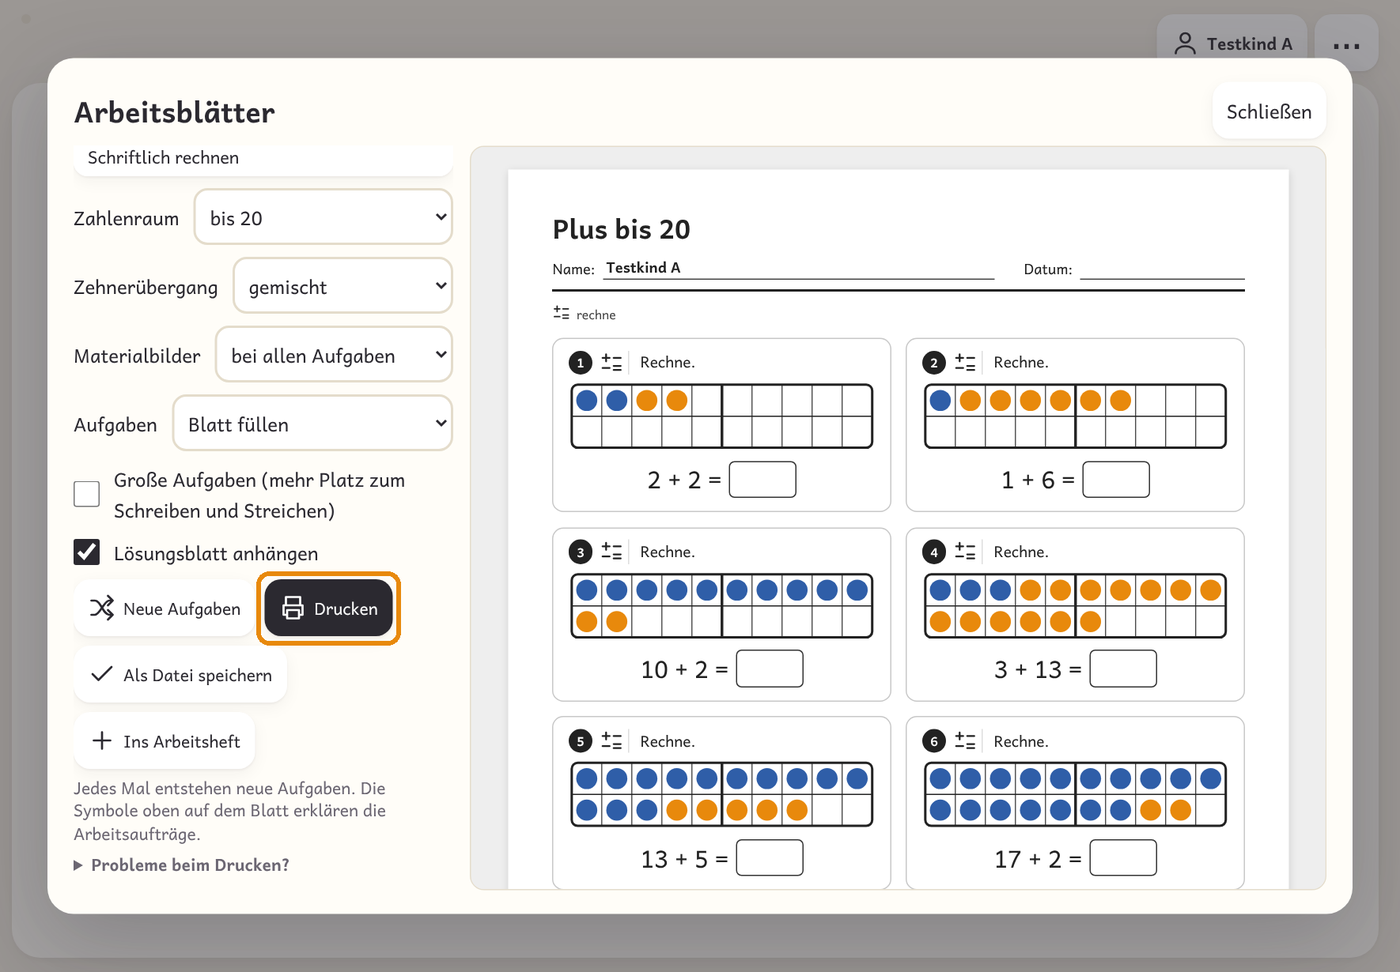
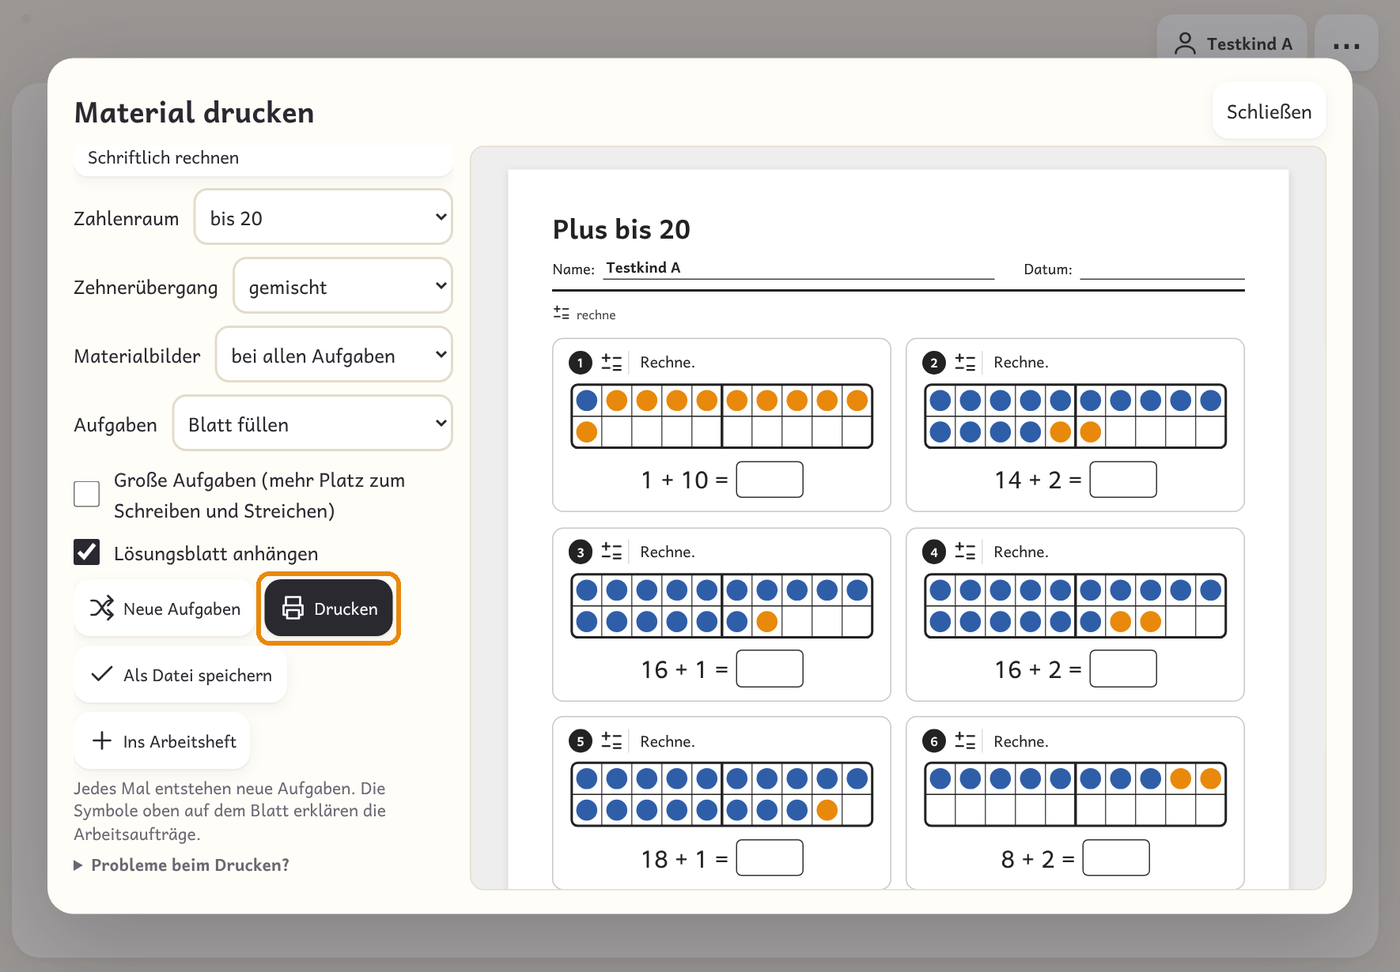
Testversion aus entwicklung (e01f0b4): Stand 0.38.0
Claude-Session: https://claude.ai/code/session_01Efzymufnh8FJ8hDG3XRv7b

diff --git a/index.html b/index.html
@@ -11455,7 +11455,7 @@ document.addEventListener('change', e => { const c = e.target.closest('[data-sub
 document.addEventListener('change', e => { const s = e.target.closest('[data-guide-pid]'); if(!s) return; const p = data.profiles.find(x => x.id === s.dataset.guidePid); if(p){ p.guide = s.value || undefined; saveData(); render(); } });
 
 /* ---------- Rückmeldung (Testphase): Art, Schwere, Text + automatischer Kontext → E-Mail ---------- */
-const APP_VERSION = '0.38.0 · Testversion 6e253ea · 26.11.2026';
+const APP_VERSION = '0.39.0 · Testversion e01f0b4 · 26.11.2026';
 /* Danke-Seite: Namen nur mit Einverständnis eintragen, z. B. 'Vorname Nachname (Schule)' */
 const THANKS = [];
 const FB_REPO = 'https://github.com/Steffinuss/stufenweise';

diff --git a/tests/simlib.py b/tests/simlib.py
@@ -37,7 +37,8 @@ async def answer(pg, correct):
         vals = it['fields'] if correct else [f+1 for f in it['fields']]
         ins = pg.locator('#stage .dg-in, #controls .dg-in')
         n = await ins.count(); assert n==len(vals), (n, vals, it)
-        for i,v in enumerate(vals): await ins.nth(i).fill(str(v))
+        # seit 0.35.1 sind Ziffernfelder bei offener Zifferntastatur readOnly → Wert per JS setzen (wie in antwortfeld.py)
+        for i,v in enumerate(vals): await ins.nth(i).evaluate("(e,v)=>{e.focus(); e.value=v; e.dispatchEvent(new Event('input',{bubbles:true}))}", str(v))
         await ins.nth(n-1).press('Enter')
     elif t=='clockset':
         await pg.evaluate("(c)=>{const it=app.diag.items[app.diag.idx];app.diag.resp={h:c?it.target.h:(it.target.h+3)%12,m:it.target.m,moved:true}}", correct); await pg.click('#d-next')

diff --git a/BACKLOG.md b/BACKLOG.md
@@ -19,6 +19,7 @@ Stand: 24.11.2026 (0.34.0)
 | 6 | ~~**G** Hundertertafel-Blätter: Bezug zur Tafel sichtbar (+ Heft zur Förderzone)~~ | klein | freigegeben in 0.32.0 (23.11.2026), siehe `CHANGELOG.md` |
 | 7 | ~~**H** Konzentrationsmodus für Kinder (+ Usability-Review)~~ | klein bis mittel | freigegeben in 0.33.0 (24.11.2026), siehe `CHANGELOG.md` |
 | 8 | ~~**I** Optimierung Deutsch (Bilder beim Schreiben, Anhören, Ausbau) + Hundertertafel verdeckt, Mathe mit Material~~ | groß | freigegeben in 0.34.0 (24.11.2026), siehe `CHANGELOG.md` |
+| 9 | ~~**J** Arbeitshefte, die aufeinander aufbauen + **K** Fußzeile ohne Namen~~ | groß | freigegeben in 0.38.0 (26.11.2026), siehe `CHANGELOG.md` |
 
 Alternative: B zuerst als schneller Gewinn, während Stefan den Basis-Test ausprobiert.
 
@@ -218,7 +219,9 @@ Beispiel „Was passt nicht?“:
 
 **Vor der Umsetzung zu klären (Stefan):** Welche Stufen zuerst (Vorschlag: V1 Gleiches, V2 Was passt nicht?, V3 Sortieren – dort wirkt Ähnlichkeit am stärksten)? Welche Gegenstände und Varianten? Soll „mittel“ eine eigene Aufgabenart werden oder eine weitere Schwierigkeit `st` innerhalb der Art? Gilt die neue Progression auch für die Arbeitsblätter?
 
-## J. Arbeitshefte, die aufeinander aufbauen (Wunsch Stefan, 25.11.2026) – Schritte 1–5 gebaut (Testversion), Durchsicht der Texte offen
+## J. Arbeitshefte, die aufeinander aufbauen (Wunsch Stefan, 25.11.2026) – erledigt, freigegeben in 0.38.0
+
+**Status:** erledigt, freigegeben in 0.38.0 (26.11.2026), siehe `CHANGELOG.md`. Mit Heft-Layout B, Deckblatt C4 und Rückseite als Nachguckseite.
 
 Stefan: „Test machen → Arbeitsheft drucken → Schüler üben lassen.“ Heute ist das Heft oft an einem Tag durch (nur Förderzone, 1–2 Seiten je Stufe). Gewünscht: kommende Stufen vorwegnehmen, Heft nur für Mathe oder nur für Deutsch, für Deutsch mehr Texte und Aufgaben, zwischendurch längere Texte; Umfang wie ein Verlagsheft (Westermann „Fördern Inklusiv“, rund 48–64 Seiten).
 
@@ -232,7 +235,52 @@ Konzept mit 9 Fragen an Stefan: Dokument „Stufenweise – Arbeitshefte, die au
 
 ## K: Name auf Arbeitsblättern durch Projektnamen ersetzen (Wunsch Stefan, 25.11.2026)
 
-**Status:** gebaut in `entwicklung` (26.11.2026, Stefan: „mach das noch“), wartet mit Backlog J auf die Freigabe. Alle 6 Fußzeilen (`tafHelp`, Arbeitsblätter, Legeblätter, Heft-Deckblatt, `HEFT_LIC`) zeigen „Stufenweise · stufenweise.app · CC BY-SA 4.0“; Impressum, Lizenzseite, Kopfkommentar und `docs/anleitung.md` (Lizenzabschnitt) unverändert. Test in `tests/heft_assistent.py`.
+**Status:** erledigt, freigegeben in 0.38.0 (26.11.2026; gebaut 26.11., Stefan: „mach das noch“). Alle 6 Fußzeilen (`tafHelp`, Arbeitsblätter, Legeblätter, Heft-Deckblatt, `HEFT_LIC`) zeigen „Stufenweise · stufenweise.app · CC BY-SA 4.0“; Impressum, Lizenzseite, Kopfkommentar und `docs/anleitung.md` (Lizenzabschnitt) unverändert. Test in `tests/heft_assistent.py`.
 **Anlass:** Unten auf Arbeitsblättern, Legeblättern und Hilfeseiten steht „© Stefan Hackl“ (5 Stellen in `index.html`, Klasse `ab-lic`, z. B. `tafHelp`, Legeblätter; dazu seit Backlog J `HEFT_LIC` für Heftseiten und Deckblatt in `buildHeft`). Blätter anderer Lehrkräfte tragen so Stefans Namen; der Name gehört nicht in Hefte und zu Eltern.
 **Vorschlag:** Fußzeile „Stufenweise · stufenweise.app · CC BY-SA 4.0“. Das genügt der Namensnennung der Lizenz; Stefan bleibt als Urheber im Impressum, in `LICENSE`/`LIZENZ-INHALTE.md` und auf GitHub genannt. Impressum und Kopfkommentar in `index.html` unverändert lassen.
 **Größe:** klein. Prüfen: `arbeitsblaetter.py`, `legeblaetter.py` (Fußzeile darf keine Seite verlängern).
+
+## L: Lineatur zum freien Schreiben wählbar (Wunsch Stefan, 26.11.2026)
+
+**Status:** nur dokumentiert, nicht begonnen.
+**Wunsch (Stefan):** „Beim freien Schreiben Arten von Lineatur aussuchen. Standard (dreiteilig → Dach/Erdgeschoss/Keller) Standard für 1./2. Klasse. Dann 2 Linien (3. Klasse) und 1 Linie (Standard 4. Klasse).“
+**Idee:** Auswahl „Lineatur“ mit drei Arten:
+- **Haus mit drei Stockwerken:** Dach, Erdgeschoss, Keller (Oberlänge, Mittelband, Unterlänge). Standard für Klasse 1/2.
+- **Zwei Linien:** Grundlinie und Mittelband. Standard für Klasse 3.
+- **Eine Linie:** Standard für Klasse 4.
+
+Der Standard richtet sich nach der Klasse/Stufe des Kindes. Die Wahl wird gemerkt (`app.sheet`, `SHEET_KEEP`) und gilt auch im Heft.
+**Betrifft:** nur Arbeitsblätter und Arbeitshefte (Stefan, 26.11.2026), also die Schreibzeilen `.ab-wline` und `.hf-lines` (W6 „Satz zum Bild“, „Satz abschreiben“, Aufgabenseiten der Fortsetzungsgeschichte). Nicht der Stift an der Tafel.
+**Größe:** klein bis mittel. Schreibzeilen mit fester Höhe je Lineatur; prüfen mit `heft_seiten_passen.py` (Seiten dürfen nicht überlaufen).
+
+## M: Arbeitsblätter im Design der Arbeitshefte (Wunsch Stefan, 26.11.2026)
+
+**Status:** nur dokumentiert, nicht begonnen.
+**Wunsch (Stefan):** „Passend zu den Arbeitsheften auch Arbeitsblätter im Design anpassen/aktualisieren.“
+**Idee:** Einzelne Arbeitsblätter („Material drucken“) bekommen das Aussehen der Heftseiten, wie in 0.38.0 eingeführt:
+- Kopfzeile wie im Heft, z. B. Fach und Stufe; Name und Datum bleiben.
+- Fußzeile immer auf gleicher Höhe, mit Bildungsplan und Lizenz.
+- Aufgabenkästen reichen bis zur Fußzeile (Layout B), keine großen Lücken.
+- **Kein Farbrand** auf einzelnen Blättern (Stefan).
+- **Schwarz-Weiß-Version für alle Blätter** anbieten (Stefan); bisher gibt es sie nur bei Basis-Blättern (`B_BW`). Farben durch Muster bzw. Graustufen ersetzen, z. B. bei Plättchen, Zwanzigerfeld, Bildern und Uhrzeigern.
+- **Lösungsblätter** bleiben im Aufbau, passen sich aber im Grundsatz an (Schrift, Fußzeile) (Stefan).
+
+Ein gemeinsamer Seitenrahmen für Blatt und Heft (`heftFrame` verallgemeinern) wäre sinnvoll, damit beide gleich bleiben.
+**Entschieden (Stefan, 26.11.2026):** kein Farbrand; Schwarz-Weiß für alle Blätter; Lösungsblätter bleiben, nur angepasst. Noch offen: Legeblätter sind genau bemaßt und bleiben vermutlich, wie sie sind. Vor dem Bauen wieder Vorschläge als Bilder zeigen.
+**Größe:** mittel. Prüfen: `arbeitsblaetter.py`, `druck_seiten.py`, `grosse_aufgaben.py`, Anleitungsbilder neu.
+
+## N: „Große Aufgaben“ auch im Heft-Assistenten (Wunsch Stefan, 26.11.2026)
+
+**Status:** nur dokumentiert, nicht begonnen.
+**Wunsch (Stefan):** „‚Große Aufgaben (mehr Platz zum Schreiben und Streichen)‘ auch bei Arbeitsheften anbieten als Option.“
+**Ist-Stand:** Bei einzelnen Arbeitsblättern gibt es das Häkchen (`app.sheet.gross`, Zoom 1,35). Im Heft bekommen nur die Einstiegsseiten große Aufgaben, und nur wenn die Seite damit zu drei Vierteln voll wird (`fixed()`). Übungsseiten übernehmen sonst zufällig die Einstellung des letzten Einzelblatts (siehe Übergabe, offene Punkte).
+**Idee:**
+- Häkchen „Große Aufgaben (mehr Platz zum Schreiben und Streichen)“ im Heft-Assistenten (`H.gross`). Es gilt für alle Übungsseiten, „Das kann ich schon“ und die Wiederholung.
+- Weniger Aufgaben je Seite. Die Seiten füllen sich weiter ganz (Layout B) und werden nicht verkleinert, große Aufgaben bleiben groß.
+- Die Einstellung des letzten Einzelblatts wird im Heft nicht mehr übernommen.
+
+**Zu bedenken:**
+- Mehr Seiten für dieselbe Übungsmenge, die Seitenzahl bleibt aber fest.
+- Sehr große Aufgaben (z. B. lange Texte) brauchen eventuell eine Ausnahme, damit sie auf eine Seite passen.
+
+**Größe:** klein bis mittel. Prüfen: `heft_seiten_passen.py` (alle Stufen mit großen Aufgaben), `heft_assistent.py`.

diff --git a/IN_PROGRESS.md b/IN_PROGRESS.md
@@ -3,31 +3,6 @@
 Was gerade begonnen ist. Erledigtes wandert nach `CHANGELOG.md`, Geplantes steht in `BACKLOG.md`.
 Arbeitsweise mit zwei Zweigen: `docs/entwicklung.md`.
 
-Stand: 26.11.2026
+Stand: 26.11.2026 (0.38.0 freigegeben)
 
-## Backlog J, Schritte 1–5: Arbeitshefte (gebaut in `entwicklung`, Testversion; Stefan: „erst alle Schritte bauen, dann freigeben“)
-
-- Schritt 1 Heft-Assistent, 2 Kapitelaufbau (Einstieg, Üben, „Das kann ich schon“, Wiederholung, Hilfen hinten, Lösungsheft), 3 Mathe-Feinstufen, 4 Deutsch-Stoff (Texte, Geschichten, Papier-Formate), 5 Broschürendruck. Details: `CHANGELOG.md` „Unveröffentlicht“.
-- **Texte freigegeben** (Stefan, 26.11.: „Die Texte sind gut. Bei den Fragen folge ich deinen Vorschlägen.“): Geschichte nur ab Förderzone L6/W5, neue Kurz- und Langtexte auch in der App, Themen und Namen bleiben. Texte in `TEXTS_NEU`, `TEXTS_MID`, `LONG_NEU`, `STORIES`; Prüfseite aus `node tests/texte_pruefseite.mjs`.
-- **Offen vor der Freigabe:** Stefans Rückmeldung zur Testversion bzw. „freigeben“ (offen von Schritt 1: Seitenverteilung, Standard-Fach „Gemischt“).
-- Seitenplanung (`heftPlan`): Gewicht Förderzone 3, nächste Stufe 2 (− halbiert, + verdoppelt); „bis voll“ nimmt reihum weitere Stufen, solange `(Summe Gewichte) × 2,5 ≤ Seiten`. Außerhalb der Kapitel: Deckblatt, eigene Inhaltsseite (> 8 Einträge), Wiederholung nach je zwei Kapiteln, Hilfen, 2 Seiten je Geschichtsteil (min(6, Seiten/8)). Kapitel ≥ 3 Seiten: Einstieg + Üben + „Das kann ich schon“; 2 Seiten: Einstieg + Üben; 1 Seite: Üben.
-- Danach (später, Stefan): Heft merken und Folgeheft vorschlagen (Frage 8).
-
-## Rückmeldung Stefan 26.11. (gebaut in `entwicklung`)
-
-- Überlauf im Heft (54 statt 48 Seiten, abgeschnittene Seite in der Broschüre) behoben, siehe `CHANGELOG.md`. Menü „Material drucken“.
-- Seiten gleichmäßig gefüllt, Seitenzahl fest unten, Stundenplan nach BP GENT, weitere Unstimmigkeiten (Sätze, Sachaufgaben) behoben. Frage an Stefan: Im BP GENT heißt das Fach „Wirtschaft und Berufsorientierung“ (WBO), Stefan schrieb „WBS“ (Name an der Gemeinschaftsschule) – im Stundenplan steht WBO.
-
-## Heft-Layout B (Stefan, 26.11.2026, gebaut in `entwicklung`)
-
-- Drei Vorschläge als Bilder gezeigt (A: Abstände verteilen, B: Aufgaben strecken, C: Platz zum Rechnen). Stefan: „Ich bin für Layout B. Gerne kannst du noch optimieren, dass es insgesamt weniger große Lücken gibt.“
-- Gebaut: `heftFrame` (Kopf-/Fußzeile aus Band und Fußzeilen der Seite), CSS in `buildHeft` (Seite als Spalte, `.ab-grid` wächst), `PAGE_FIT_JS` lässt Kopf- und Fußzeile unverkleinert, Messen mit Rahmen, keine Verkleinerung im Heft (`tight`), größerer Aufgabenvorrat beim Füllen. Test: `heft_assistent.py` (Layout B: Kopf/Fuß, bis zur Fußzeile gefüllt, nichts verkleinert, Seitenzahl gleich hoch).
-
-## Deckblatt C4 und Rückseite (Stefan, 26.11.2026, gebaut in `entwicklung`)
-
-- Vorschläge A (Rahmen), B (Farbband), C (Stufen); Stefan: C, aber andere Mitte → C1 Lernweg, C2 Kapitelkarten, C3 Fachbild, C4 Fachbild mit Inhalt. Stefan: „Ich finde C4 auch gut. Den farbigen Rand finde ich super … Für das gemischte Heft würde ich halb-halb vorschlagen.“ Dazu Wunsch: Rand auf der Rückseite fortsetzen (Regal), Rückseite als Nachguckseite je nach Thema, Anlauttabelle letzte Zeile voll.
-- Gebaut: `heftSubj`, `heftBand`, `heftTitleAuto`, `heftBild`, `FACH_COL`; Rückseite `it.back` (`heftBackFor`, `backOf` in `heftPlan`, `P.back`), neue Hilfen `zf`, `stw`, `merk`, `form` (nur als Rückseite); Broschüre: Leerseiten vor die Rückseite. Inhalt bleibt auf dem Deckblatt (Stefans Frage nach eigener Inhaltsseite: Empfehlung C4, Stefan einverstanden).
-
-## Backlog K: Fußzeile ohne Namen (gebaut in `entwicklung`, 26.11.2026)
-
-- Kommt mit Backlog J zusammen in die Freigabe (0.38.0). Anleitungsbilder dann neu aufnehmen (zeigen noch die alte Fußzeile).
+Zurzeit nichts in Arbeit. Backlog J (Arbeitshefte) und K (Fußzeile) sind mit 0.38.0 freigegeben. Als Nächstes im Backlog (nur dokumentiert): L, M, N.

diff --git a/CHANGELOG.md b/CHANGELOG.md
@@ -5,6 +5,8 @@ Versionen: Hauptversion.Nebenversion.Korrektur (Korrektur = Fehlerbehebung, Nebe
 
 ## Unveröffentlicht (Zweig `entwicklung`, Testversion)
 
+## 0.38.0 – 26.11.2026
+
 - **Heft-Assistent** (Backlog J, Schritt 1; Wunsch Stefan, 25.11.2026): Das „Heft zur Förderzone“ wird zum Heft-Assistenten. Wählbar sind Fach (Mathe, Deutsch, Basis oder gemischt), Umfang (12, 24, 36 oder 48 Seiten, 24 vorausgewählt; Deckblatt und Inhalt zählen mit, das gedruckte Heft hat genau so viele Seiten) und wie weit das Heft vorgreift (nur Förderzone, je eine Stufe weiter, bis das Heft voll ist – Standard). Jede Stufe ist ein Kapitel, zuerst die Förderzone mit den meisten Seiten, dann die nächsten noch nicht erreichten Stufen in Lernreihenfolge (`heftRow`). Jede Seite hat neue Aufgaben. Kapitel lassen sich abwählen, kürzer oder länger machen. Deckblatt mit Fach, Inhalt mit Kapiteln und Seitenzahl, unten „Seite n · Kapitel k“ (Seiten wie gedruckt gezählt). Bisher „Blätter je Stufe 1/2“ entfällt. Funktionen `heftPlan`, `heftMake`, `heftPages`, `heftAssistHtml`; Test `tests/heft_assistent.py`.
 - **Kapitelaufbau** (Backlog J, Schritt 2): Jedes Kapitel hat eine Einstiegsseite (große Aufgaben, die erste als Beispiel mit Lösung), Übungsseiten und zum Schluss „Das kann ich schon“ (gemischte Aufgaben, Selbsteinschätzung in drei Stufen mit Worten und Zeichen ●/◐/○ zum Ankreuzen). Nach je zwei Kapiteln eine Wiederholung. Hilfen hinten je nach Inhalt: Hundertertafel, Anlauttabelle (neu als Druckseite), Einmaleins-Tafel (neu). Lösungsheft für die Lehrkraft (drucken oder speichern), mit denselben Seitenzahlen.
 - **Mathe-Feinstufen** (Schritt 3): Die Übungsseiten eines Kapitels werden schwerer – mit Bild → Bild selbst zeichnen (bzw. Minus selbst wegstreichen) → im Kopf; dazu wählt `app.sheet.stufe` (0…1, nur im Heft) Aufgaben von leicht nach schwer. Basis V1–V3: Ähnlichkeit deutlich → ähnlich → fein.
@@ -23,6 +25,7 @@ Versionen: Hauptversion.Nebenversion.Korrektur (Korrektur = Fehlerbehebung, Nebe
 - **Weitere Unstimmigkeiten behoben:** „Stimmt das?“-Sätze, die als falsch galten, aber stimmen („Mit dem Messer kann man Papier schneiden“, „Mit dem Handy kann man Fotos machen“, „Die Mütze ist nass“, „Die Pizza ist eckig“, „Die Kerze ist hell“); Kerze, Tasse, Glas „stehen unter dem Tisch“; Sachaufgaben mit unrealistischen Preisen (Helm und Schloss bis 390 €, Strom und Internet bis 390 €); drei neue Texte mit Klassen 7–9 nur noch für Haupt-/Berufsschulstufe. Test `tests/plaene_sinnvoll.py`.
 - **Menü „Material drucken“** statt „Arbeitsblätter“ (Wunsch Stefan, 26.11.2026), ebenso die Überschrift des Fensters.
 - **Fußzeile ohne Namen** (Backlog K, Wunsch Stefan): Arbeitsblätter, Legeblätter, Hilfeseiten, Heft und Lösungsheft tragen unten „Stufenweise · stufenweise.app · CC BY-SA 4.0“ statt „© Stefan Hackl“. Stefan bleibt im Impressum, in der Lizenz und auf GitHub als Urheber genannt.
+- Anleitungsbilder neu aufgenommen (neue Fußzeile, Menü „Material drucken“, Zifferntastatur mit 1 2 3 oben). Testhilfe `tests/simlib.py` setzt Ziffern per JS (Felder sind seit 0.35.1 bei offener Zifferntastatur schreibgeschützt).
 
 ## 0.37.0 – 25.11.2026
 

diff --git a/README.md b/README.md
@@ -1,4 +1,4 @@
-> **Testversion von Stufenweise** – Stand aus [Steffinuss/stufenweise](https://github.com/Steffinuss/stufenweise), Zweig `entwicklung` (6e253ea). Nicht für den Unterricht. Hier nicht direkt arbeiten.
+> **Testversion von Stufenweise** – Stand aus [Steffinuss/stufenweise](https://github.com/Steffinuss/stufenweise), Zweig `entwicklung` (e01f0b4). Nicht für den Unterricht. Hier nicht direkt arbeiten.
 
 # Stufenweise
 
